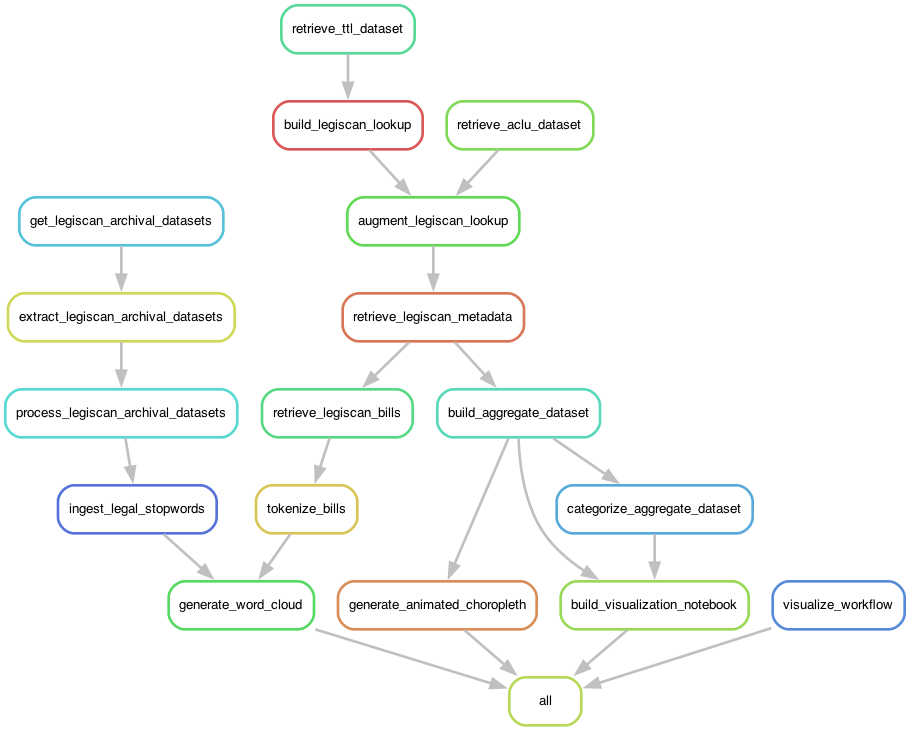
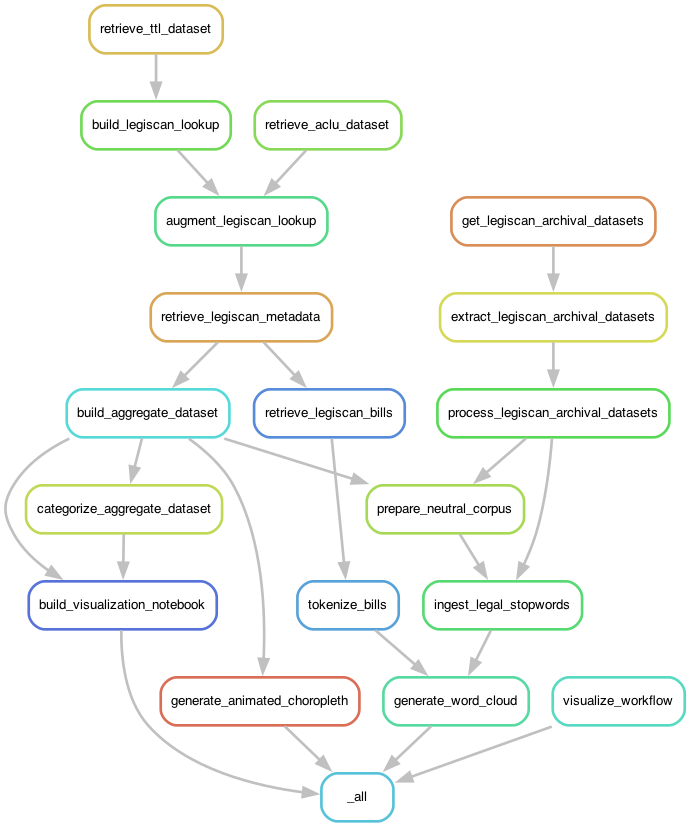
build neutral dataset

Changed region(s): [[0.0, 0.0, 1.0, 1.0]]

diff --git a/static/visualize.html b/static/visualize.html
@@ -14750,7 +14750,7 @@ class="
 <div class=" highlight hl-ipython3"><pre><span></span><span class="n">data</span> <span class="o">=</span> <span class="p">(</span>
     <span class="n">df</span>
         <span class="o">.</span><span class="n">loc</span><span class="p">[</span><span class="n">df</span><span class="o">.</span><span class="n">introduced_date</span> <span class="o">!=</span> <span class="s1">&#39;&#39;</span><span class="p">]</span>
-        <span class="o">.</span><span class="n">loc</span><span class="p">[</span><span class="n">df</span><span class="o">.</span><span class="n">introduced_date</span> <span class="o">&gt;=</span> <span class="s1">&#39;2022/11/01&#39;</span><span class="p">]</span>
+        <span class="o">.</span><span class="n">loc</span><span class="p">[</span><span class="n">df</span><span class="o">.</span><span class="n">introduced_date</span> <span class="o">&gt;=</span> <span class="s1">&#39;2022/09/01&#39;</span><span class="p">]</span>
         <span class="o">.</span><span class="n">copy</span><span class="p">()</span>
         <span class="p">[</span><span class="s1">&#39;introduced_date&#39;</span><span class="p">]</span><span class="o">.</span><span class="n">transform</span><span class="p">(</span><span class="k">lambda</span> <span class="n">x</span><span class="p">:</span> <span class="n">datetime</span><span class="o">.</span><span class="n">strptime</span><span class="p">(</span><span class="n">x</span><span class="p">,</span> <span class="s1">&#39;%Y-%m-</span><span class="si">%d</span><span class="s1">&#39;</span><span class="p">)</span><span class="o">.</span><span class="n">date</span><span class="p">())</span>
         <span class="o">.</span><span class="n">value_counts</span><span class="p">()</span>

diff --git a/lib/tasks/prepare_neutral_corpus.py b/lib/tasks/prepare_neutral_corpus.py
@@ -1,12 +1,11 @@
-import os.path
-
 from math import isnan
 from operator import itemgetter
 from typing import List
 
 import pandas as pd
+import typer
 
-from lib.legiscan import BillDescriptor, get_bill_text_direct, extract_bill_contents
+from lib.legiscan import BillDescriptor, download_and_extract
 
 
 def select_neutral_corpus(  # pylint: disable=W0102 # shut up shut up shut up
@@ -63,25 +62,35 @@ def prepare_neutral_corpus(  # pylint: disable=W0102
         in neutral_bills.iterrows()
     )
 
-    responses = (
-        (
+    return [
+        download_and_extract(  # pylint: disable=E1120
             descriptor,
-            get_bill_text_direct(  # pylint: disable=E1120
-                descriptor,
-                os.path.join(work_dir, 'metas'),
-                str(doc_id),
-            )
+            str(int(doc_id)),
+            work_dir,
         )
         for descriptor, doc_id
         in tuples
+    ]
+
+
+def main(
+    summaries_path: str,
+    aggregate_path: str,
+    output_path: str,
+    num_bills: int = typer.Option(10),
+    random_state: int = typer.Option(1),
+):
+    """The CLI for this task"""
+    aggregate_frame = pd.read_json(aggregate_path)
+    states_with_bills = aggregate_frame.state.unique().tolist()  # pylint: disable=E1101
+    prepare_neutral_corpus(
+        output_path,
+        summaries_path,
+        num_bills,
+        filter_states=states_with_bills,
+        random_state=random_state
     )
 
-    return [
-        extract_bill_contents(
-            descriptor,
-            os.path.join(work_dir, 'bills'),
-            response_json,
-        )
-        for descriptor, response_json
-        in responses
-    ]
+
+if __name__ == "__main__":
+    typer.run(main)
